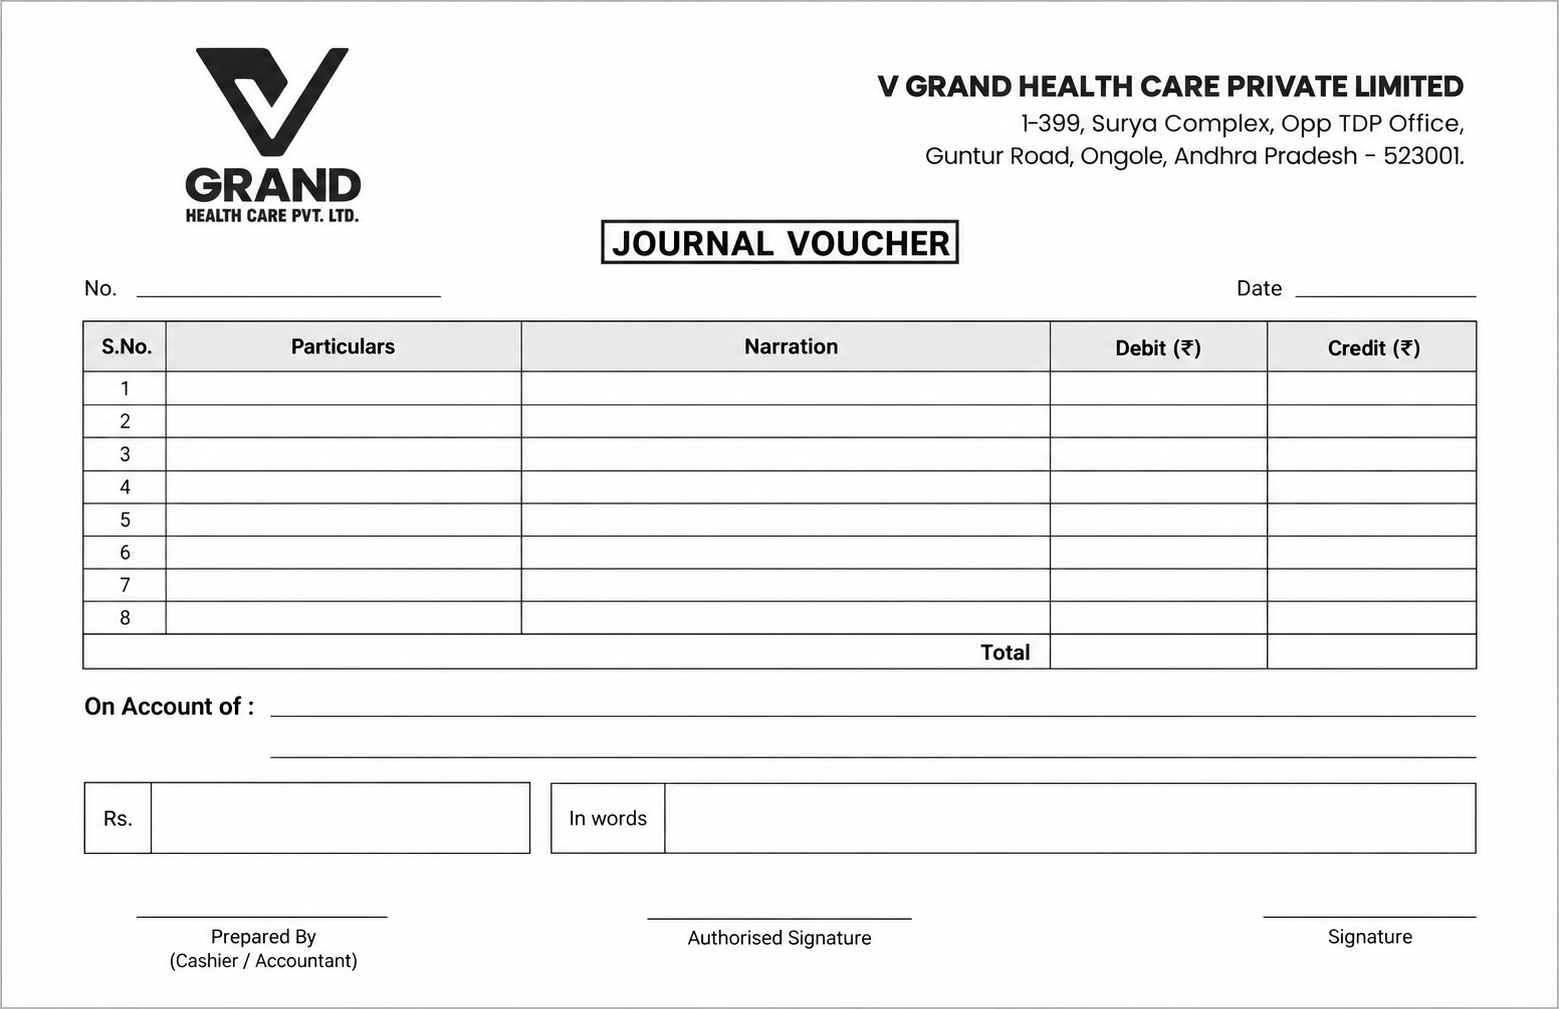
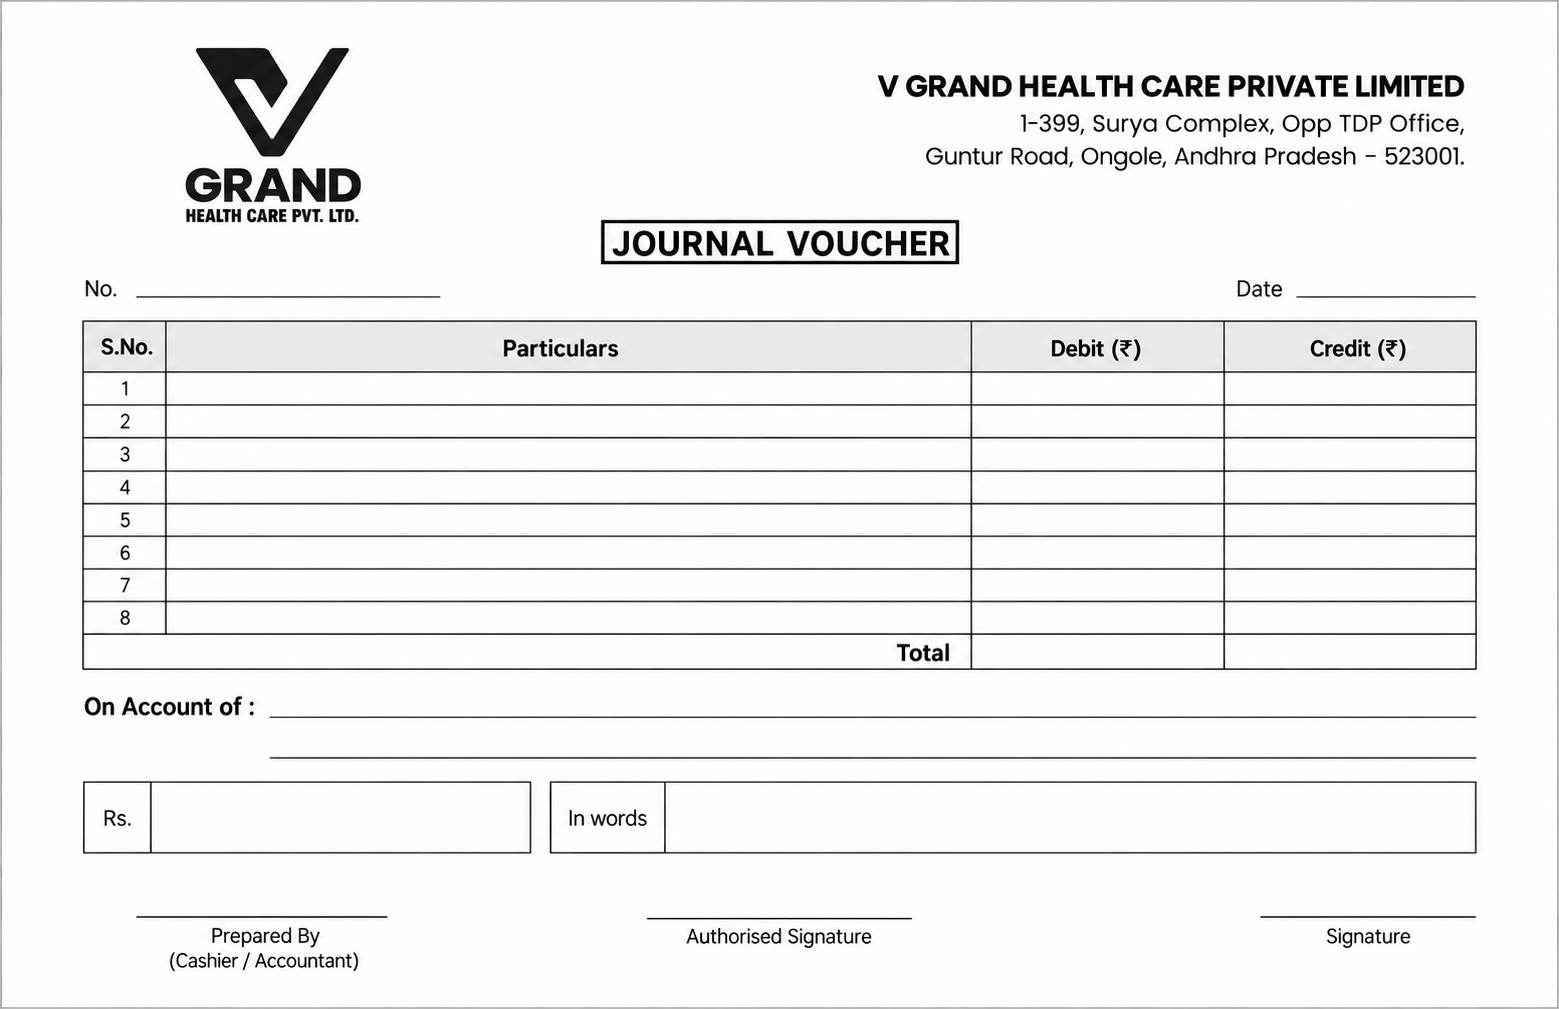
feat(vouchers): new journal voucher template + field positions
Updated journal voucher format merges the old Particulars/Narration
columns into one wide Particulars column — entry rows now print
"Ledger — description" in it, with debit/credit aligned to the new
columns and totals on the new Total row. Also widens the receipt
voucher number field.

Generated with [Devin](https://devin.ai)

diff --git a/frontend/src/pages/VouchersPage.tsx b/frontend/src/pages/VouchersPage.tsx
@@ -1833,7 +1833,7 @@ function ReceiptVoucherPrintPreview({ voucher, template }: { voucher: PrintableV
 
   return (
     <VoucherPrintSheet template={template} alt="Receipt voucher template" aspect="1600 / 1035">
-      <Typography sx={{ ...voucherFieldSx, left: '18.6%', top: '34.7%', maxWidth: '12%' }}>{voucher.jvNumber}</Typography>
+      <Typography sx={{ ...voucherFieldSx, left: '18.6%', top: '34.7%', maxWidth: '50%' }}>{voucher.jvNumber}</Typography>
       <Typography sx={{ ...voucherLineFieldSx, left: '76.2%', top: '34.7%', maxWidth: '17.5%' }}>{formatDate(voucher.date)}</Typography>
       <Typography sx={{ ...voucherLineFieldSx, left: '25.2%', top: '42.1%', width: '68%' }}>{partyEntry?.ledgerName || ''}</Typography>
       <Typography sx={{ ...voucherLineFieldSx, left: '23.6%', top: '49.5%', width: '41%' }}>{receiptMode}</Typography>
@@ -1854,13 +1854,13 @@ function JournalVoucherPrintPreview({ voucher, template }: { voucher: PrintableV
   const createdBy = voucher.createdByUser?.name || voucher.createdBy || '';
   const entries = voucher.entries;
 
-  // The template has 8 ruled rows between the header (~36.7%) and the Total row
-  // (~63.5%). When a voucher has more than 8 entries, compress the row spacing so
+  // The template has 8 ruled rows between the header (~34.5%) and the Total row
+  // (~64.4%). When a voucher has more than 8 entries, compress the row spacing so
   // every entry still prints inside the table without overlapping the Total line.
   const cellSx = { ...voucherFieldSx, fontSize: 'clamp(9px, 1.15vw, 16px)' };
-  const firstRowCenterY = 38.6;
-  const templateRowStep = 3.25;
-  const lastRowCenterY = 62.6;
+  const firstRowCenterY = 38.2;
+  const templateRowStep = 3.27;
+  const lastRowCenterY = 61.2;
   const rowStep = entries.length <= 8
     ? templateRowStep
     : (lastRowCenterY - firstRowCenterY) / Math.max(entries.length - 1, 1);
@@ -1868,26 +1868,27 @@ function JournalVoucherPrintPreview({ voucher, template }: { voucher: PrintableV
 
   return (
     <VoucherPrintSheet template={template} alt="Journal voucher template" aspect="1559 / 1009">
-      <Typography sx={{ ...voucherLineFieldSx, left: '9%', top: '29.5%', maxWidth: '19%' }}>{voucher.jvNumber}</Typography>
-      <Typography sx={{ ...voucherLineFieldSx, left: '83.2%', top: '29.5%', maxWidth: '11%' }}>{formatDate(voucher.date)}</Typography>
+      <Typography sx={{ ...voucherLineFieldSx, left: '9%', top: '29.3%', maxWidth: '19%' }}>{voucher.jvNumber}</Typography>
+      <Typography sx={{ ...voucherLineFieldSx, left: '83.5%', top: '29.3%', maxWidth: '11%' }}>{formatDate(voucher.date)}</Typography>
 
       {entries.map((entry, index) => (
         <Box key={entry.ledgerId + '-' + index}>
-          <Typography sx={{ ...cellSx, left: '5.5%', width: '5.2%', top: rowCenterY(index), textAlign: 'center' }}>{index + 1}</Typography>
-          <Typography sx={{ ...cellSx, left: '11.2%', width: '21.9%', top: rowCenterY(index) }}>{entry.ledgerName}</Typography>
-          <Typography sx={{ ...cellSx, left: '34.1%', width: '32.7%', top: rowCenterY(index) }}>{entry.description || ''}</Typography>
-          <Typography sx={{ ...cellSx, left: '67.9%', width: '12.8%', top: rowCenterY(index), textAlign: 'right' }}>{entry.debit > 0 ? formatIndianNumber(entry.debit.toFixed(2)) : ''}</Typography>
-          <Typography sx={{ ...cellSx, left: '81.9%', width: '12.1%', top: rowCenterY(index), textAlign: 'right' }}>{entry.credit > 0 ? formatIndianNumber(entry.credit.toFixed(2)) : ''}</Typography>
+          <Typography sx={{ ...cellSx, left: '5.6%', width: '5.1%', top: rowCenterY(index), textAlign: 'center' }}>{index + 1}</Typography>
+          <Typography sx={{ ...cellSx, left: '11.2%', width: '50.5%', top: rowCenterY(index) }}>
+            {entry.ledgerName}{entry.description ? ` — ${entry.description}` : ''}
+          </Typography>
+          <Typography sx={{ ...cellSx, left: '63%', width: '14.5%', top: rowCenterY(index), textAlign: 'right' }}>{entry.debit > 0 ? formatIndianNumber(entry.debit.toFixed(2)) : ''}</Typography>
+          <Typography sx={{ ...cellSx, left: '78.5%', width: '15%', top: rowCenterY(index), textAlign: 'right' }}>{entry.credit > 0 ? formatIndianNumber(entry.credit.toFixed(2)) : ''}</Typography>
         </Box>
       ))}
 
-      <Typography sx={{ ...cellSx, left: '67.9%', width: '12.8%', top: '65.4%', textAlign: 'right', fontWeight: 700 }}>{formatIndianNumber(totalDebit.toFixed(2))}</Typography>
-      <Typography sx={{ ...cellSx, left: '81.9%', width: '12.1%', top: '65.4%', textAlign: 'right', fontWeight: 700 }}>{formatIndianNumber(totalCredit.toFixed(2))}</Typography>
+      <Typography sx={{ ...cellSx, left: '63%', width: '14.5%', top: '64.4%', textAlign: 'right', fontWeight: 700 }}>{formatIndianNumber(totalDebit.toFixed(2))}</Typography>
+      <Typography sx={{ ...cellSx, left: '78.5%', width: '15%', top: '64.4%', textAlign: 'right', fontWeight: 700 }}>{formatIndianNumber(totalCredit.toFixed(2))}</Typography>
 
       <Typography sx={{ ...voucherLineFieldSx, left: '18%', top: '71%', width: '75%' }}>{voucher.description || ''}</Typography>
-      <Typography sx={{ ...voucherFieldSx, left: '10.4%', top: '81.1%', width: '22.8%', fontWeight: 700 }}>{formatIndianNumber(amount.toFixed(2))}</Typography>
-      <Typography sx={{ ...voucherFieldSx, left: '43.4%', top: '81.1%', width: '50%', whiteSpace: 'normal', display: '-webkit-box', WebkitLineClamp: 2, WebkitBoxOrient: 'vertical' }}>{amountText}</Typography>
-      <Typography sx={{ ...voucherLineFieldSx, left: '9%', top: '91%', maxWidth: '15.5%' }}>{createdBy}</Typography>
+      <Typography sx={{ ...voucherFieldSx, left: '10.4%', top: '81%', width: '22.8%', fontWeight: 700 }}>{formatIndianNumber(amount.toFixed(2))}</Typography>
+      <Typography sx={{ ...voucherFieldSx, left: '43.4%', top: '81%', width: '50%', whiteSpace: 'normal', display: '-webkit-box', WebkitLineClamp: 2, WebkitBoxOrient: 'vertical' }}>{amountText}</Typography>
+      <Typography sx={{ ...voucherLineFieldSx, left: '9%', top: '90.5%', maxWidth: '15.5%' }}>{createdBy}</Typography>
     </VoucherPrintSheet>
   );
 }
